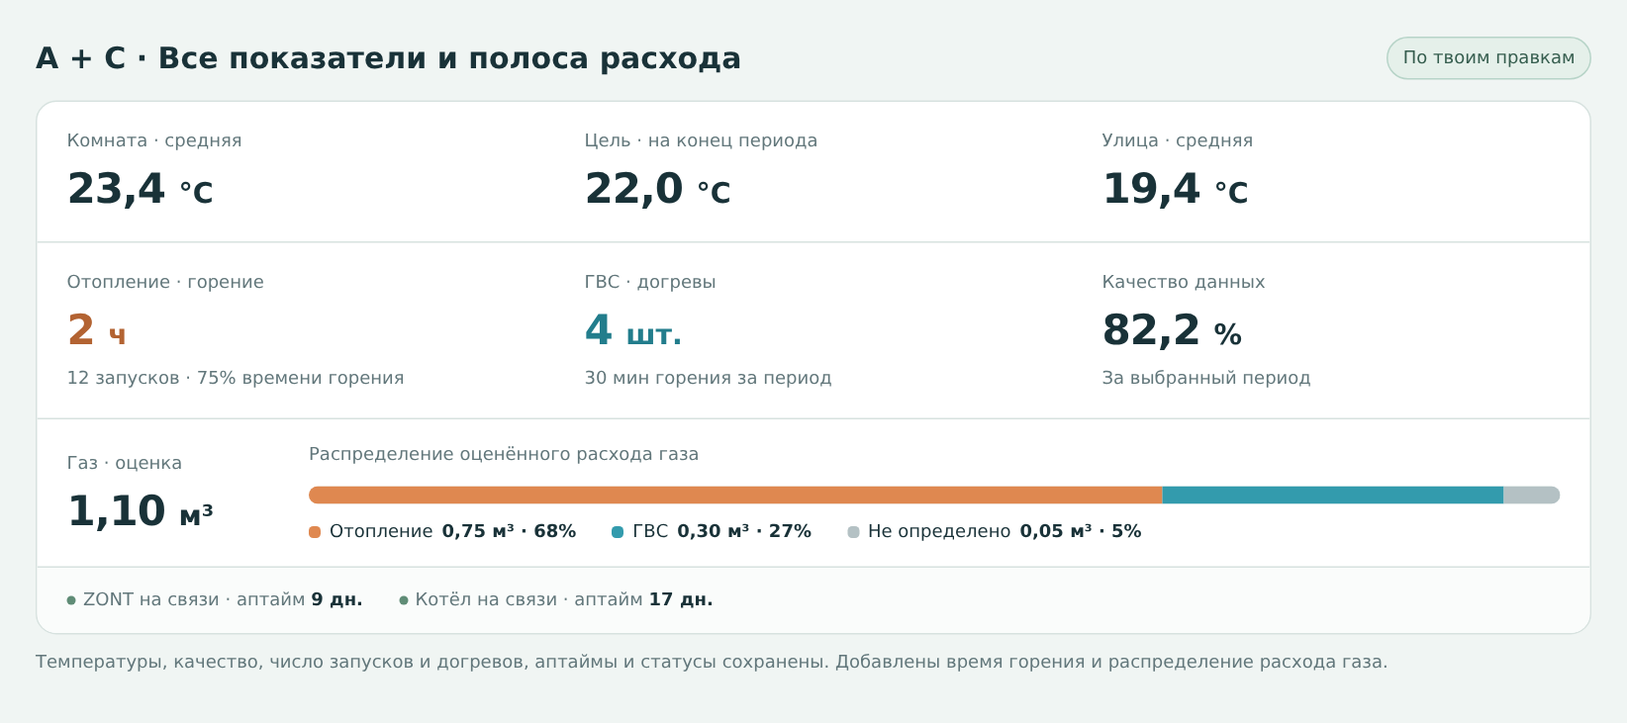
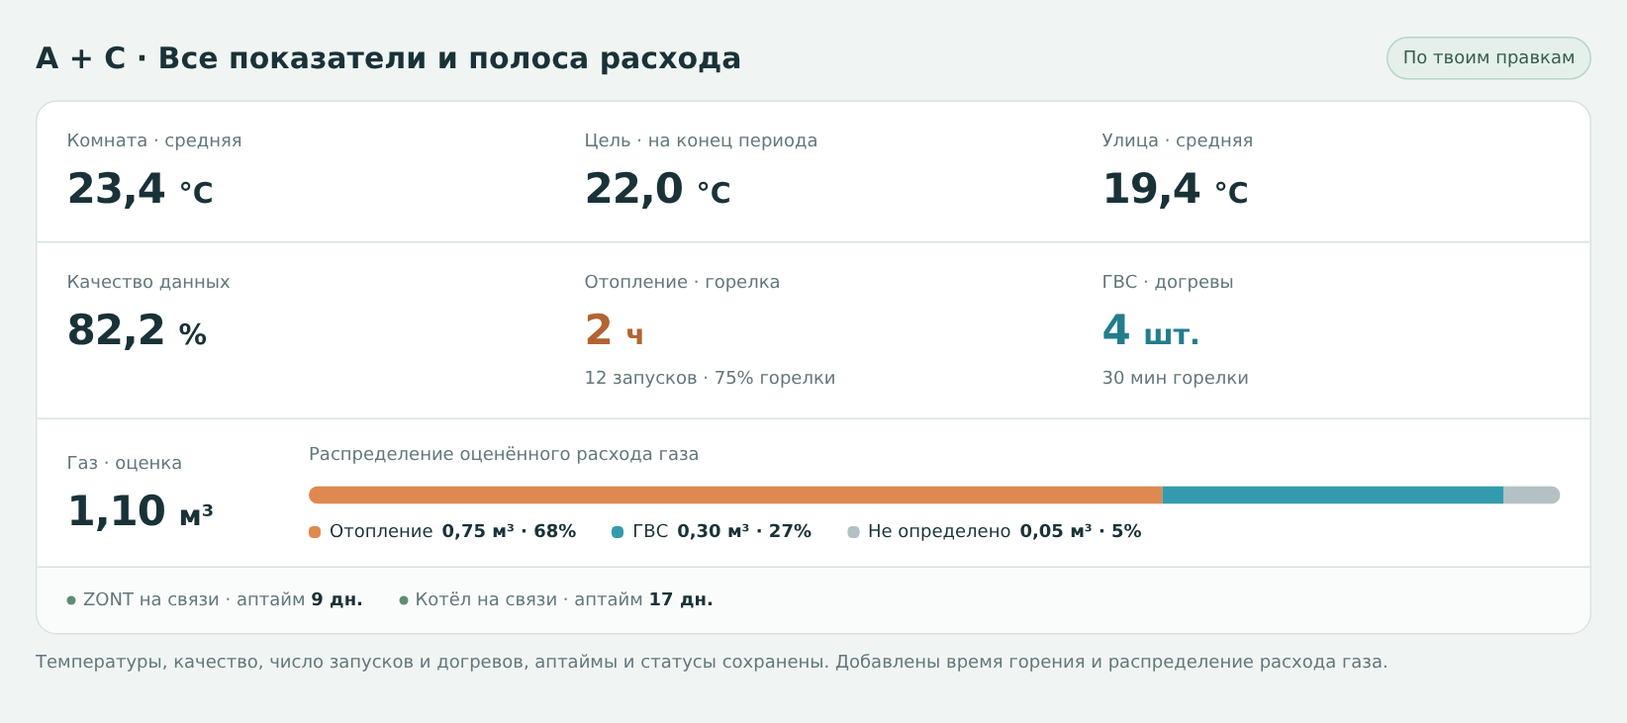
Implement approved compact dashboard and preserve held gas targets

diff --git a/docs/mockups/stage8.5/dashboard-options.html b/docs/mockups/stage8.5/dashboard-options.html
@@ -12,7 +12,7 @@
 <section class="option" id="b"><div class="option-head"><h2>B · Карточки + кольцо расхода газа</h2><span class="badge">Рекомендую</span></div><div class="panel"><div class="split"><div class="grid"><div class="cell"><div class="label">Комната · средняя</div><div class="value">23,4 <small>°C</small></div></div><div class="cell"><div class="label">Цель · на конец периода</div><div class="value">22,0 <small>°C</small></div></div><div class="cell"><div class="label">Улица · средняя</div><div class="value">19,4 <small>°C</small></div></div><div class="cell"><div class="label">Отопление · горение</div><div class="value heat">2 <small>ч</small></div><div class="sub">75% времени горения</div></div><div class="cell"><div class="label">ГВС · догревы</div><div class="value dhw">4 <small>шт.</small></div><div class="sub">30 мин горения</div></div><div class="cell"><div class="label">Качество данных</div><div class="value">82,2 <small>%</small></div><div class="sub">За выбранный период</div></div></div><aside class="gas-card"><div class="gas-title">Расход газа <span class="estimate">Оценка</span></div><div class="ring" role="img" aria-label="Газ: отопление 68%, ГВС 27%, не определено 5%"><div class="ring-label">1,10<span>м³ за период</span></div></div><div class="legend"><div class="legend-row"><i class="swatch"></i>Отопление <b>0,75 м³</b><em>68%</em></div><div class="legend-row"><i class="swatch dhw-bg"></i>ГВС <b>0,30 м³</b><em>27%</em></div><div class="legend-row"><i class="swatch unknown"></i>Не определено <b>0,05 м³</b><em>5%</em></div></div></aside></div><div class="status"><span><i class="dot"></i>ZONT на связи · аптайм <b>9 дн.</b></span><span><i class="dot"></i>Котёл на связи · аптайм <b>17 дн.</b></span><span>Доли на кольце — от оценённого расхода газа</span></div></div><p class="note">Кольцо показывает, куда ушёл газ. Время горения остаётся отдельным показателем: его доли могут отличаться от долей расхода.</p></section>
 <section class="option" id="c"><div class="option-head"><h2>C · Мини-дашборд с полосой распределения</h2><span class="badge">Акцент на сравнении</span></div><div class="panel"><div class="c-top"><div class="cell"><div class="label">Температура дома · средняя</div><div class="value">23,4 <small>°C</small></div><div class="mini">Цель <strong>22,0 °C</strong> · улица <strong>19,4 °C</strong></div></div><div class="cell"><div class="label">Отопление · горение</div><div class="value heat">2 <small>ч</small></div><div class="mini">75% всего времени горения</div></div><div class="cell"><div class="label">ГВС · догревы</div><div class="value dhw">4 <small>шт.</small></div><div class="mini">30 мин горения за период</div></div></div><div class="strip c-gas"><div><div class="label">Газ · оценка</div><div class="value">1,10 <small>м³</small></div></div><div><div class="label">Распределение оценённого расхода газа</div><div class="bar" role="img" aria-label="Отопление 68%, ГВС 27%, не определено 5%"><span></span><span></span><span></span></div><div class="inline-legend"><span><i class="swatch"></i>Отопление <b>0,75 м³ · 68%</b></span><span><i class="swatch dhw-bg"></i>ГВС <b>0,30 м³ · 27%</b></span><span><i class="swatch unknown"></i>Не определено <b>0,05 м³ · 5%</b></span></div></div></div><div class="status"><span><i class="dot amber"></i>Качество данных <b>82,2%</b></span><span><i class="dot"></i>ZONT на связи · аптайм <b>9 дн.</b></span><span><i class="dot"></i>Котёл на связи · аптайм <b>17 дн.</b></span></div></div><p class="note">Компактная альтернатива кольцу. Полоса показывает те же доли, что кольцо, и оставляет больше места под подписи.</p></section>
 <section class="option" id="d"><div class="option-head"><h2>A + C · Все показатели и полоса расхода</h2><span class="badge">По твоим правкам</span></div><div class="panel">
-<div class="grid"><div class="cell"><div class="label">Комната · средняя</div><div class="value">23,4 <small>°C</small></div></div><div class="cell"><div class="label">Цель · на конец периода</div><div class="value">22,0 <small>°C</small></div></div><div class="cell"><div class="label">Улица · средняя</div><div class="value">19,4 <small>°C</small></div></div><div class="cell"><div class="label">Отопление · горение</div><div class="value heat">2 <small>ч</small></div><div class="sub">12 запусков · 75% времени горения</div></div><div class="cell"><div class="label">ГВС · догревы</div><div class="value dhw">4 <small>шт.</small></div><div class="sub">30 мин горения за период</div></div><div class="cell"><div class="label">Качество данных</div><div class="value">82,2 <small>%</small></div><div class="sub">За выбранный период</div></div></div>
+<div class="grid"><div class="cell"><div class="label">Комната · средняя</div><div class="value">23,4 <small>°C</small></div></div><div class="cell"><div class="label">Цель · на конец периода</div><div class="value">22,0 <small>°C</small></div></div><div class="cell"><div class="label">Улица · средняя</div><div class="value">19,4 <small>°C</small></div></div><div class="cell"><div class="label">Качество данных</div><div class="value">82,2 <small>%</small></div></div><div class="cell"><div class="label">Отопление · горелка</div><div class="value heat">2 <small>ч</small></div><div class="sub">12 запусков · 75% горелки</div></div><div class="cell"><div class="label">ГВС · догревы</div><div class="value dhw">4 <small>шт.</small></div><div class="sub">30 мин горелки</div></div></div>
 <div class="strip c-gas"><div><div class="label">Газ · оценка</div><div class="value">1,10 <small>м³</small></div></div><div><div class="label">Распределение оценённого расхода газа</div><div class="bar" role="img" aria-label="Отопление 68%, ГВС 27%, не определено 5%"><span></span><span></span><span></span></div><div class="inline-legend"><span><i class="swatch"></i>Отопление <b>0,75 м³ · 68%</b></span><span><i class="swatch dhw-bg"></i>ГВС <b>0,30 м³ · 27%</b></span><span><i class="swatch unknown"></i>Не определено <b>0,05 м³ · 5%</b></span></div></div></div><div class="status"><span><i class="dot"></i>ZONT на связи · аптайм <b>9 дн.</b></span><span><i class="dot"></i>Котёл на связи · аптайм <b>17 дн.</b></span></div></div><p class="note">Температуры, качество, число запусков и догревов, аптаймы и статусы сохранены. Добавлены время горения и распределение расхода газа.</p></section>
 <p class="foot">«Не определено» сохраняется, если назначение расхода неизвестно. Без достаточных данных — «Нет данных», без выдуманных долей. При наличии показания общего счётчика распределение котла подписывается отдельно как оценка.</p>
 </main></body></html>

diff --git a/src/zont_analyzer/reports/presentation.py b/src/zont_analyzer/reports/presentation.py
@@ -96,6 +96,10 @@ def _gas_value(value: Any, unit: str = "") -> str:
     return number(value, unit) if isinstance(value, (int, float)) and not isinstance(value, bool) else "Нет данных"
 
 
+def compact_percent(value: float) -> str:
+    return f"{value:.1f}".replace(".", ",").rstrip("0").rstrip(",") + "%"
+
+
 _GAS_REASONS = {
     "invalid_exposure": "Некорректный интервал телеметрии",
     "no_calibrated_rate": "Недостаточно данных для калибровки расхода",
@@ -328,16 +332,63 @@ def kpis(report: Report) -> str:
         value = metrics[name].value
         return str(int(value)) if not unit and value.is_integer() else number(value, unit)
 
+    gas = report.context.get("gas")
+    gas = gas if isinstance(gas, dict) else {}
+    flame_hours = gas.get("flame_hours")
+    heating_hours = gas.get("heating_flame_hours")
+    dhw_hours = gas.get("dhw_flame_hours")
+    flame_total = (
+        float(flame_hours) if isinstance(flame_hours, (int, float)) and not isinstance(flame_hours, bool)
+        else None
+    )
+    heating_total = (
+        float(heating_hours) if isinstance(heating_hours, (int, float)) and not isinstance(heating_hours, bool)
+        else None
+    )
+    dhw_total = (
+        float(dhw_hours) if isinstance(dhw_hours, (int, float)) and not isinstance(dhw_hours, bool)
+        else None
+    )
+
+    def burner_time(value: float | None) -> str:
+        if value is None or not math.isfinite(value) or value < 0:
+            return "Нет данных"
+        minutes = round(value * 60)
+        return f"{minutes} мин" if minutes < 60 else number(value, "ч")
+
+    def burner_share(value: float | None) -> str:
+        if (
+            value is None or flame_total is None or not math.isfinite(value)
+            or not math.isfinite(flame_total) or flame_total <= 0
+        ):
+            return "Нет данных"
+        return f"{compact_percent(value / flame_total * 100)} горелки"
+
+    starts = metric("burner_starts", "")
+    starts_label = ""
+    if "burner_starts" in metrics:
+        count = int(metrics["burner_starts"].value)
+        word = ("запусков" if 11 <= count % 100 <= 14 else "запуск" if count % 10 == 1
+                else "запуска" if 2 <= count % 10 <= 4 else "запусков")
+        starts_label = f"{starts} {word}"
+    heating_subtitle = " · ".join(
+        text for text in (
+            starts_label,
+            burner_share(heating_total) if heating_total is not None else "",
+        ) if text
+    )
+    dhw_subtitle = f"{burner_time(dhw_total)} горелки" if dhw_total is not None else ""
+
     values = [
-        ("Комната · средняя", metric("mean_temperature_c", "°C")),
+        ("Комната · средняя", metric("mean_temperature_c", "°C"), ""),
         (
             "Цель · средняя за период" if is_period else "Цель · на конец периода",
-            number(target_value, "°C"),
+            number(target_value, "°C"), "",
         ),
-        ("Улица · средняя", metric("outdoor_mean_temperature_c", "°C")),
-        ("Качество данных", number(report.quality.score * 100, "%")),
-        ("Отопление · запуски", metric("burner_starts", "")),
-        ("ГВС · догревы", metric("dhw_episode_count", "")),
+        ("Улица · средняя", metric("outdoor_mean_temperature_c", "°C"), ""),
+        ("Качество данных", number(report.quality.score * 100, "%"), ""),
+        ("Отопление · горелка", burner_time(heating_total), heating_subtitle),
+        ("ГВС · догревы", metric("dhw_episode_count", ""), dhw_subtitle),
     ]
     return (
         '<section class="kpi-grid" aria-label="Ключевые показатели">'
@@ -346,25 +397,115 @@ def kpis(report: Report) -> str:
             + (f'<small>По {target_coverage:g}% периода</small>'
                if index == 1 and is_period and target_value is not None
                and target_coverage is not None and target_coverage < 99 else "")
-            + "</div>" for index, (label, value) in enumerate(values)
+            + (f'<small>{esc(subtitle)}</small>' if subtitle else "")
+            + "</div>" for index, (label, value, subtitle) in enumerate(values)
         )
+        + gas_distribution_card(gas)
         + reliability(report)
         + "</section>"
     )
 
 
+def gas_distribution_card(gas: dict[str, Any]) -> str:
+    """Show purpose allocation only when every part has a real model denominator."""
+    status = str(gas.get("status") or "unknown")
+    amount = gas.get("volume_m3")
+    meter_volume = (
+        f"{amount:.2f}".replace(".", ",") + " м³"
+        if status != "unknown" and isinstance(amount, (int, float)) and not isinstance(amount, bool)
+        and math.isfinite(amount) and amount >= 0 else "Нет данных"
+    )
+    status_label = {"measured": "измерено", "estimated": "оценено", "extrapolated": "экстраполяция"}.get(
+        status, "нет данных"
+    )
+    split = gas.get("purpose_split")
+    heading = (
+        '<div class="gas-kpi-total"><span>Расход газа</span>'
+        f'<strong>{esc(meter_volume)}</strong><small>{esc(status_label)}</small></div>'
+    )
+    if not isinstance(split, dict):
+        return f'<section class="kpi gas-kpi kpi-gas-strip">{heading}</section>'
+
+    def valid(value: Any) -> TypeGuard[float]:
+        return isinstance(value, (int, float)) and not isinstance(value, bool) and math.isfinite(value) and value >= 0
+
+    def model_volume(value: float) -> str:
+        return f"{value:.2f}".replace(".", ",") + " м³"
+
+    components = split.get("components")
+    total, gap = split.get("total_modelled_m3"), split.get("unallocated_m3")
+    values = {}
+    for key in ("heating", "dhw", "purpose_unknown"):
+        item = components.get(key) if isinstance(components, dict) else None
+        values[key] = item.get("volume_m3") if isinstance(item, dict) else None
+    if valid(total) and total == 0:
+        return (
+            f'<section class="kpi gas-kpi kpi-gas-strip">{heading}'
+            '<p class="gas-distribution-unavailable">Распределение по модели: 0,00 м³</p></section>'
+        )
+    if not (
+        split.get("status") in {"estimated", "measured", "extrapolated"}
+        and valid(total) and total > 0 and valid(gap) and all(valid(value) for value in values.values())
+    ):
+        return (
+            f'<section class="kpi gas-kpi kpi-gas-strip">{heading}'
+            '<p class="gas-distribution-unavailable">Распределение по модели: Нет данных</p></section>'
+        )
+
+    heating, dhw, purpose_unknown = values["heating"], values["dhw"], values["purpose_unknown"]
+    assert valid(heating) and valid(dhw) and valid(purpose_unknown) and valid(gap)
+    denominator = total
+    unknown = purpose_unknown + gap
+    if not math.isclose(heating + dhw + unknown, denominator, rel_tol=1e-6, abs_tol=1e-9):
+        return (
+            f'<section class="kpi gas-kpi kpi-gas-strip">{heading}'
+            '<p class="gas-distribution-unavailable">Распределение по модели: Нет данных</p></section>'
+        )
+    parts = (("Отопление", heating, "heat"), ("ГВС", dhw, "dhw"),
+             ("Не определено", unknown, "unknown"))
+    aria = "; ".join(f"{label} {compact_percent(value / denominator * 100)}" for label, value, _ in parts)
+    bars = "".join(
+        f'<span class="gas-bar-{css}" style="width:{value / denominator * 100:.6f}%"></span>'
+        for _, value, css in parts
+    )
+    legend = "".join(
+        f'<span><i class="gas-swatch gas-swatch-{css}"></i>{esc(label)} <b>{esc(model_volume(value))} · '
+        f'{compact_percent(value / denominator * 100)}</b></span>'
+        for label, value, css in parts
+    )
+    model_label = f"Распределение по модели: {model_volume(denominator)}"
+    meter_note = (
+        "Показание счётчика и распределение по модели считаются отдельно."
+        if status == "measured" and gas.get("scope") in {"whole_meter", "shared_meter"} else ""
+    )
+    if gas.get("scope") == "shared_meter" or split.get("scope") == "shared_meter_model":
+        meter_note = "Общий счётчик: другие потребители газа не отделены."
+    aria_label = f"{aria}. Знаменатель: {_gas_value(denominator, 'м³')} по модели."
+    return (
+        f'<section class="kpi gas-kpi kpi-gas-strip">{heading}<div class="gas-distribution">'
+        f'<span class="gas-distribution-label">{esc(model_label)}</span>'
+        f'<div class="gas-distribution-bar" role="img" aria-label="{esc(aria_label)}">{bars}</div>'
+        f'<div class="gas-distribution-legend">{legend}</div>'
+        f'<small class="gas-distribution-note">{esc(meter_note)}</small></div></section>'
+    )
+
+
 def reliability(report: Report) -> str:
-    cards = []
+    statuses = []
     by_name = {metric.name: metric for metric in report.metrics}
     for key in ("zont_uptime_seconds", "boiler_uptime_seconds"):
         metric = by_name.get(key)
         if metric is None:
             label = "ZONT" if key.startswith("zont") else "Котёл"
-            cards.append(f'<div class="kpi"><span>Аптайм {label}</span><strong>Нет данных</strong></div>')
+            statuses.append(
+                '<span class="uptime-unknown"><i class="uptime-dot"></i>'
+                f'{label} · статус неизвестен · аптайм: нет данных</span>'
+            )
             continue
         name = "ZONT" if metric.name.startswith("zont") else "Котёл"
         online = metric.context.get("online")
-        status = "● На связи" if online is True else "○ Не на связи" if online is False else "Статус неизвестен"
+        status = "на связи" if online is True else "не на связи" if online is False else "статус неизвестен"
+        status_class = "uptime-online" if online is True else "uptime-offline" if online is False else "uptime-unknown"
         seconds = metric.value
         duration = (
             f"{int(seconds // 86400)} дн."
@@ -373,18 +514,12 @@ def reliability(report: Report) -> str:
             if seconds >= 3600
             else f"{int(seconds // 60)} мин"
         )
-        cards.append(
-            f'<div class="kpi"><span>Аптайм {name}</span><strong>{duration}</strong><small>{status}</small>'
+        statuses.append(
+            f'<span class="{status_class}"><i class="uptime-dot"></i>{esc(name)} · {esc(status)} · '
+            f'аптайм {esc(duration)}</span>'
             + debug(metric.model_dump(), "Основание аптайма")
-            + "</div>"
         )
-    gas = report.context.get("gas", {})
-    status = {"measured": "Измерено по датам показаний", "estimated": "Оценка",
-              "extrapolated": "Экстраполяция"}.get(gas.get("status"), "Нет данных")
-    volume = _gas_value(gas.get("volume_m3"), "м³") if gas.get("status") != "unknown" else "Нет данных"
-    cards.append('<div class="kpi gas-kpi"><span>Расход газа за период</span>'
-                 f'<strong>{esc(volume)}</strong><small>{esc(status)}</small></div>')
-    return '<div class="kpi-uptime-row" aria-label="Надёжность и газ">' + "".join(cards) + "</div>"
+    return '<footer class="kpi-uptime-row" aria-label="Статус и аптаймы">' + "".join(statuses) + "</footer>"
 
 
 def timezone_note(report: Report) -> str:

diff --git a/tests/test_gas_presentation.py b/tests/test_gas_presentation.py
@@ -1,6 +1,6 @@
 from datetime import UTC, datetime, timedelta
 
-from zont_analyzer.domain import QualityResult, Report
+from zont_analyzer.domain import MetricValue, QualityResult, Report
 from zont_analyzer.reports import render_html
 
 
@@ -103,3 +103,52 @@ def test_partial_purpose_split_does_not_invent_percentages_or_zero() -> None:
     assert "ГВС: 0,00 м³" in lines
     assert "Назначение не определено: Нет данных" in lines
     assert not any("%" in line for line in lines)
+
+
+def test_dashboard_uses_short_burner_labels_and_modelled_gas_denominator() -> None:
+    from zont_analyzer.reports.presentation import kpis
+
+    report = _report({
+        "status": "measured", "scope": "whole_meter", "volume_m3": 5,
+        "flame_hours": 4, "heating_flame_hours": 3, "dhw_flame_hours": .5,
+        "purpose_split": {
+            "status": "estimated", "total_modelled_m3": 1, "unallocated_m3": .1,
+            "components": {"heating": {"volume_m3": .6}, "dhw": {"volume_m3": .25},
+                           "purpose_unknown": {"volume_m3": .05}},
+        },
+    })
+    report.metrics = [
+        MetricValue(id="starts", name="burner_starts", value=12, unit=""),
+        MetricValue(id="dhw", name="dhw_episode_count", value=4, unit=""),
+        MetricValue(id="zont", name="zont_uptime_seconds", value=86400, unit="", context={"online": True}),
+        MetricValue(id="boiler", name="boiler_uptime_seconds", value=7200, unit="", context={"online": False}),
+    ]
+    dashboard = kpis(report)
+    assert "12 запусков · 75% горелки" in dashboard
+    assert "30 мин горелки" in dashboard
+    assert "времени горения" not in dashboard
+    assert dashboard.index("Качество данных") < dashboard.index("Отопление · горелка")
+    assert dashboard.index("Отопление · горелка") < dashboard.index("ГВС · догревы")
+    assert 'class="gas-distribution-bar"' in dashboard
+    assert "Распределение по модели: 1,00 м³" in dashboard
+    assert "Показание счётчика и распределение по модели считаются отдельно." in dashboard
+    assert "Не определено <b>0,15 м³ · 15%" in dashboard
+    assert 'class="kpi-uptime-row" aria-label="Статус и аптаймы"' in dashboard
+    assert "ZONT · на связи · аптайм 1 дн." in dashboard
+    assert "Котёл · не на связи · аптайм 2 ч" in dashboard
+
+
+def test_dashboard_does_not_draw_a_gas_bar_without_complete_modelled_parts() -> None:
+    from zont_analyzer.reports.presentation import kpis
+
+    report = _report({
+        "status": "estimated", "volume_m3": 1,
+        "purpose_split": {
+            "status": "partial", "total_modelled_m3": None, "unallocated_m3": None,
+            "components": {"heating": {"volume_m3": .2}, "dhw": {"volume_m3": 0},
+                           "purpose_unknown": {"volume_m3": None}},
+        },
+    })
+    dashboard = kpis(report)
+    assert 'class="gas-distribution-bar"' not in dashboard
+    assert "Распределение по модели: Нет данных" in dashboard

diff --git a/src/zont_analyzer/reports/theme.py b/src/zont_analyzer/reports/theme.py
@@ -95,7 +95,25 @@ color:var(--secondary)}
 font-size:25px;
 letter-spacing:-.5px;
 margin-top:5px}
-.kpi-uptime-row{display:grid;grid-template-columns:repeat(3,minmax(0,1fr));grid-column:1/-1}
+.kpi small{display:block;font-size:12px;color:var(--secondary);margin-top:7px}
+.kpi-gas-strip{grid-column:1/-1;display:grid;
+grid-template-columns:minmax(130px,180px) minmax(0,1fr);gap:18px;align-items:center}
+.gas-kpi-total span,.gas-distribution-label{display:block;font-size:12px;color:var(--secondary)}
+.gas-kpi-total strong{display:block;font-size:25px;letter-spacing:-.5px;margin-top:5px}
+.gas-kpi-total small{display:block;font-size:12px;color:var(--secondary);margin-top:7px}
+.gas-distribution-bar{display:flex;height:12px;overflow:hidden;border-radius:6px;
+background:var(--elevated);margin:8px 0}
+.gas-bar-heat{background:#b36332}.gas-bar-dhw{background:#227d8c}.gas-bar-unknown{background:#9aa8aa}
+.gas-distribution-legend{display:flex;gap:8px 20px;flex-wrap:wrap;font-size:12px;color:var(--secondary)}
+.gas-distribution-legend span{display:flex;align-items:center;gap:5px;min-width:0}
+.gas-distribution-legend b{color:var(--text);font-weight:600;white-space:nowrap}
+.gas-swatch{display:inline-block;width:8px;height:8px;border-radius:3px;flex:none}.gas-swatch-heat{background:#b36332}.gas-swatch-dhw{background:#227d8c}.gas-swatch-unknown{background:#9aa8aa}
+.gas-distribution-note:empty{display:none}.gas-distribution-unavailable{margin:0;color:var(--secondary);font-size:12px}
+.kpi-uptime-row{grid-column:1/-1;display:flex;gap:10px 24px;flex-wrap:wrap;
+padding:13px 18px;background:var(--elevated);border-bottom:0;font-size:12px;color:var(--secondary)}
+.kpi-uptime-row>span{display:flex;align-items:center;gap:5px}.kpi-uptime-row .debug-only{display:none}
+.uptime-dot{width:6px;height:6px;border-radius:50%;background:var(--accent);display:inline-block}
+.uptime-offline .uptime-dot{background:var(--danger)}.uptime-unknown .uptime-dot{background:var(--muted)}
 .gas-period-card{display:block;
 gap:12px 24px;margin-top:18px;padding:22px;background:var(--surface);border:1px solid var(--border);border-radius:12px}
 .gas-period-card>summary{cursor:pointer;font-weight:650}.gas-period-card[open]>summary{margin-bottom:12px}
@@ -293,7 +311,8 @@ gap:18px}
 .actions{width:100%}
 .hero{padding:22px}
 h1{font-size:28px}
-.kpi-grid,.kpi-uptime-row{grid-template-columns:repeat(2,minmax(0,1fr))}
+.kpi-grid{grid-template-columns:repeat(2,minmax(0,1fr))}
+.kpi-gas-strip{grid-template-columns:1fr;gap:10px}.kpi-uptime-row{gap:8px 18px}
 .chart-section,.thermal-system,.details-area{padding:18px}
 .reliability{flex-wrap:wrap;
 gap:12px;

diff --git a/src/zont_analyzer/application/gas.py b/src/zont_analyzer/application/gas.py
@@ -27,6 +27,7 @@ from zont_analyzer.analytics.gas import (
     estimate_gas_purpose_split,
     integrate_exposure,
 )
+from zont_analyzer.analytics.series_semantics import is_setpoint_series
 from zont_analyzer.application.owner_context import GasReadingRow, OwnerContextStore
 from zont_analyzer.config import AppConfig
 from zont_analyzer.domain import Report
@@ -153,9 +154,18 @@ class GasService:
                                                ('target_temperature', 'target_hours', 'target_degree_hours'),
                                                ('control_indoor_temperature', 'room_hours', 'room_degree_hours')]:
             source = self._unique(role)
-            samples = self.db.fetch_samples(int(source['id']), start - FRESHNESS, end + FRESHNESS) if source else []
+            held = bool(source and is_setpoint_series(source['source_type'], source['metric_key']))
+            samples: list[tuple[datetime, float | None]] = []
+            if source:
+                samples = self.db.fetch_numeric_observations(
+                    int(source['id']), start if held else start - FRESHNESS, end + FRESHNESS,
+                    include_previous=held,
+                )
             for index, (moment, value) in enumerate(samples):
-                right = min(end, moment + FRESHNESS, samples[index+1][0] if index+1 < len(samples) else end)
+                if value is None:
+                    continue
+                limit = end if held else moment + FRESHNESS
+                right = min(end, limit, samples[index+1][0] if index+1 < len(samples) else end)
                 left = max(start, moment)
                 if right <= left:
                     continue

diff --git a/tests/integration/test_stage8_gas.py b/tests/integration/test_stage8_gas.py
@@ -205,3 +205,19 @@ def test_gas_correction_reuses_published_charts_without_raw_telemetry_rebuild(tm
     monkeypatch.setattr(chart_data, 'build_chart_data', forbidden)
     r.config.pilot.reports_dir = str(tmp_path/'publish')
     assert publish_reports(r)['reports'] == len(reports)
+
+
+def test_gas_context_holds_old_setpoint_until_explicit_unknown(tmp_path: Path):
+    import pytest
+
+    r = build_runtime(None, tmp_path)
+    start = datetime(2026, 1, 1, tzinfo=UTC)
+    points = [TelemetryPoint(device_id='1', entity_id='circuit', source_type='z3k_heating_circuit',
+                             metric_key='target_temp', timestamp_utc=stamp, value_num=value)
+              for stamp, value in [(start-timedelta(days=3), 22.0),
+                                   (start+timedelta(hours=1), None),
+                                   (start+timedelta(hours=2), 24.0)]]
+    r.db.upsert_samples(points, roles={'circuit': 'target_temperature'})
+    window = GasService(r.db, r.config).window(start, start+timedelta(hours=3))
+    assert window['target_hours'] == pytest.approx(2)
+    assert window['target_degree_hours'] == pytest.approx(46)
